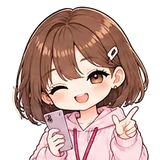
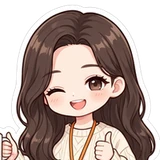
은빈을 원래 디자인으로 다시 그림 (다람 주임과 구분)
Claude-Session: https://claude.ai/code/session_013o6MwTRjv9wdDZ1RWn6mmU

diff --git a/sw.js b/sw.js
@@ -1,5 +1,5 @@
 // 자동 생성 파일: tools/build.py가 만든다. 직접 고치지 말고 tools/sw.template.js를 고칠 것
-const CACHE='humzzwi-2026.10.09-950b1d';
+const CACHE='humzzwi-2026.10.09-553dd5';
 const ASSETS=["./", "index.html", "manifest.json", "icon-192.png", "icon-512.png", "apple-touch-icon.png", "fonts/GowunDodum-Regular.woff2", "fonts/Jua-Regular.woff2", "assets/a_bear.webp", "assets/a_daram.webp", "assets/a_daram_f.webp", "assets/a_eunbin.webp", "assets/a_fox.webp", "assets/a_hanmin.webp", "assets/a_hyunsu.webp", "assets/a_hz_walk.webp", "assets/a_hz_walk_b.webp", "assets/a_jaemin.webp", "assets/a_jiyoung.webp", "assets/a_lab.webp", "assets/a_sangho.webp", "assets/a_seohwi.webp", "assets/a_sumin.webp", "assets/badge.webp", "assets/c_ai.webp", "assets/c_ai_b.webp", "assets/c_blind.webp", "assets/c_blind_b.webp", "assets/c_blog.webp", "assets/c_blog_b.webp", "assets/c_cafe.webp", "assets/c_cafe_b.webp", "assets/c_coffee.webp", "assets/c_coffee_b.webp", "assets/c_content.webp", "assets/c_content_b.webp", "assets/c_cs.webp", "assets/c_cs_b.webp", "assets/c_date.webp", "assets/c_date_b.webp", "assets/c_daytrip.webp", "assets/c_daytrip_b.webp", "assets/c_english.webp", "assets/c_english_b.webp", "assets/c_erp.webp", "assets/c_erp_b.webp", "assets/c_ev_ceo.webp", "assets/c_ev_ceo_b.webp", "assets/c_ev_jobup.webp", "assets/c_ev_jobup_b.webp", "assets/c_ev_promo.webp", "assets/c_ev_promo_b.webp", "assets/c_excel.webp", "assets/c_excel_b.webp", "assets/c_filling.webp", "assets/c_filling_b.webp", "assets/c_formula.webp", "assets/c_formula_b.webp", "assets/c_friends.webp", "assets/c_friends_b.webp", "assets/c_global.webp", "assets/c_global_b.webp", "assets/c_gym.webp", "assets/c_gym_b.webp", "assets/c_half.webp", "assets/c_half_b.webp", "assets/c_ingredient.webp", "assets/c_ingredient_b.webp", "assets/c_jeju.webp", "assets/c_jeju_b.webp", "assets/c_keymsg.webp", "assets/c_keymsg_b.webp", "assets/c_leave.webp", "assets/c_leave_b.webp", "assets/c_lecture.webp", "assets/c_lecture_b.webp", "assets/c_license.webp", "assets/c_license_b.webp", "assets/c_logistics.webp", "assets/c_logistics_b.webp", "assets/c_mba.webp", "assets/c_mba_b.webp", "assets/c_md.webp", "assets/c_md_b.webp", "assets/c_minutes.webp", "assets/c_minutes_b.webp", "assets/c_orient.webp", "assets/c_orient_b.webp", "assets/c_overtime.webp", "assets/c_overtime_b.webp", "assets/c_package.webp", "assets/c_package_b.webp", "assets/c_pilates.webp", "assets/c_pilates_b.webp", "assets/c_pt.webp", "assets/c_pt_b.webp", "assets/c_research.webp", "assets/c_research_b.webp", "assets/c_review.webp", "assets/c_review_b.webp", "assets/c_run.webp", "assets/c_run_b.webp", "assets/c_schedule.webp", "assets/c_schedule_b.webp", "assets/c_selfdate.webp", "assets/c_selfdate_b.webp", "assets/c_settle.webp", "assets/c_settle_b.webp", "assets/c_shoot.webp", "assets/c_shoot_b.webp", "assets/c_shop_hb.webp", "assets/c_shop_hb_b.webp", "assets/c_shop_mall.webp", "assets/c_shop_mall_b.webp", "assets/c_shop_online.webp", "assets/c_shop_online_b.webp", "assets/c_snack.webp", "assets/c_snack_b.webp", "assets/c_store.webp", "assets/c_store_b.webp", "assets/c_tokyo.webp", "assets/c_tokyo_b.webp", "assets/c_trip.webp", "assets/c_trip_b.webp", "assets/c_walk.webp", "assets/c_walk_b.webp", "assets/d_coffeechat_f.webp", "assets/d_coffeechat_f_b.webp", "assets/d_coffeechat_m.webp", "assets/d_coffeechat_m_b.webp", "assets/d_coffeeget_f.webp", "assets/d_coffeeget_f_b.webp", "assets/d_coffeeget_m.webp", "assets/d_coffeeget_m_b.webp", "assets/d_coffeegive_f.webp", "assets/d_coffeegive_f_b.webp", "assets/d_coffeegive_m.webp", "assets/d_coffeegive_m_b.webp", "assets/d_coffeeshare_f.webp", "assets/d_coffeeshare_f_b.webp", "assets/d_coffeeshare_m.webp", "assets/d_coffeeshare_m_b.webp", "assets/d_confess_f.webp", "assets/d_confess_f_b.webp", "assets/d_confess_m.webp", "assets/d_confess_m_b.webp", "assets/d_picnic_f.webp", "assets/d_picnic_f_b.webp", "assets/d_picnic_m.webp", "assets/d_picnic_m_b.webp", "assets/d_ramen_f.webp", "assets/d_ramen_f_b.webp", "assets/d_ramen_m.webp", "assets/d_ramen_m_b.webp", "assets/ev_arrive.webp", "assets/ev_arrive_b.webp", "assets/ev_building.webp", "assets/ev_dinner.webp", "assets/ev_overload.webp", "assets/ev_pass.webp", "assets/ev_pass_b.webp", "assets/ev_present.webp", "assets/ev_reject.webp", "assets/ev_reject_b.webp", "assets/ev_studio.webp", "assets/ev_studio_b.webp", "assets/ev_subway.webp", "assets/ev_subway_b.webp", "assets/f_bear.webp", "assets/f_ceo.webp", "assets/f_daram.webp", "assets/f_daram_f.webp", "assets/f_eunbin.webp", "assets/f_fox.webp", "assets/f_hanmin.webp", "assets/f_hyunsu.webp", "assets/f_hz.webp", "assets/f_jaemin.webp", "assets/f_jiyoung.webp", "assets/f_lab.webp", "assets/f_sangho.webp", "assets/f_seohwi.webp", "assets/f_sumin.webp", "assets/hz.png", "assets/id_bad.webp", "assets/id_good.webp", "assets/id_ok.webp", "assets/lunch.webp", "assets/m_box.webp", "assets/m_box_b.webp", "assets/m_fit.webp", "assets/m_fit_b.webp", "assets/m_lab.webp", "assets/m_lab_b.webp", "assets/m_phone.webp", "assets/m_phone_b.webp", "assets/m_study.webp", "assets/m_study_b.webp", "assets/pl_boss.webp", "assets/pl_cafe.webp", "assets/pl_lab.webp", "assets/pl_mkt.webp", "assets/pl_ops.webp", "assets/pl_roof.webp", "assets/pl_sales.webp", "assets/pl_strat.webp", "assets/pl_studio.webp", "assets/pl_wh.webp", "assets/s_ceo.webp", "assets/s_coffee.webp", "assets/s_coffee_b.webp", "assets/s_dark.webp", "assets/s_dark_b.webp", "assets/s_desk.webp", "assets/s_desk_b.webp", "assets/s_eat.webp", "assets/s_eat_b.webp", "assets/s_jump.webp", "assets/s_jump_b.webp", "assets/s_sleep.webp", "assets/s_sleep_b.webp", "assets/s_walk.webp", "assets/s_walk_b.webp", "assets/sc_cafe.webp", "assets/sc_factory.webp", "assets/sc_gym.webp", "assets/sc_home.webp", "assets/sc_lab.webp", "assets/sc_meeting.webp", "assets/sc_office.webp", "assets/sc_package.webp", "assets/sc_park.webp", "assets/sc_popup.webp", "assets/sc_rain.webp", "assets/sc_store.webp", "assets/sc_studio.webp", "assets/sc_study.webp", "assets/v_short.webp", "assets/v_short_b.webp"];
 self.addEventListener('install',e=>{self.skipWaiting();e.waitUntil((async()=>{
   const c=await caches.open(CACHE),total=ASSETS.length,all=async()=>self.clients.matchAll({includeUncontrolled:true});

diff --git a/index.html b/index.html
@@ -7,7 +7,7 @@
 <meta name="apple-mobile-web-app-capable" content="yes"><meta name="mobile-web-app-capable" content="yes">
 <meta name="apple-mobile-web-app-status-bar-style" content="black-translucent"><meta name="apple-mobile-web-app-title" content="험쮜메이커">
 <meta name="theme-color" content="#2a1f33">
-<link rel="manifest" href="manifest.json?v=950b1d"><link rel="apple-touch-icon" sizes="180x180" href="apple-touch-icon.png?v=950b1d"><link rel="icon" type="image/png" sizes="192x192" href="icon-192.png?v=950b1d">
+<link rel="manifest" href="manifest.json?v=553dd5"><link rel="apple-touch-icon" sizes="180x180" href="apple-touch-icon.png?v=553dd5"><link rel="icon" type="image/png" sizes="192x192" href="icon-192.png?v=553dd5">
 <style>
 /* 글꼴은 파일로 같이 들고 다닌다 (비행기 모드에서도 같은 모양) */
 @font-face{font-family:"Jua";src:url(fonts/Jua-Regular.woff2) format("woff2");font-display:swap}
@@ -2382,7 +2382,7 @@ function showGroup(ks){let g=$('#group');if(!g){g=document.createElement('div');
   // 모두 같은 배율의 그림이라 BODY_T(실제 키) 비율 그대로 세운다
   g.innerHTML=ks.map((k,i)=>`<figure style="animation-delay:${i*.08}s" data-t="${bodyT(k)}"><figcaption>${JOB_TAG[k]?JOB_TAG[k]+' · '+given(k):who(k).name}</figcaption><img src="${IMG(sprOf(k))}" alt="${esc(who(k).name)}"></figure>`).join('');g.hidden=false;placeGroup()}
 // 모든 동료 그림은 한 장의 라인업에서 같은 배율로 오려낸 것. BODY_T = 그림의 실제 픽셀 키 (얼굴 크기는 모두 같다)
-const BODY_T={"sangho":597,"hyunsu":533,"hanmin":581,"seohwi":536,"jiyoung":493,"daram":585,"eunbin":504,"sumin":538,"jaemin":593,"daram_f":486},T_MAX=597;
+const BODY_T={"sangho":597,"hyunsu":533,"hanmin":581,"seohwi":536,"jiyoung":493,"daram":585,"eunbin":510,"sumin":538,"jaemin":593,"daram_f":486},T_MAX=597;
 const sprOf=k=>imgOf(k);
 const bodyT=k=>BODY_T[imgOf(k).slice(2)]||T_MAX;
 function placeGroup(){const g=$('#group');if(!g||g.hidden)return;const d=$('#dialog'),ph=$('#phone').clientHeight,top=d.hidden?ph-200:d.offsetTop;
@@ -2910,7 +2910,7 @@ document.addEventListener('click',e=>{const b=e.target.closest('[data-mset]');if
    말주머니로 질문 → 답을 고르면 업무 성과 평가(정답일수록 매출·해외 진출·♥ 상승). 한 달에 3번. */
 const SEAT={sangho:[30,26],hyunsu:[70,26],hanmin:[18,48],seohwi:[50,48],jiyoung:[82,48],daram:[13,70],eunbin:[37,70],sumin:[63,70],jaemin:[87,70]};
 // 캐릭터마다 원본 그림 크기가 달라서, 얼굴 폭이 같아 보이도록 자르는 값 [너비%, 왼쪽%, 위%]
-const CROP={"sangho": [110.3, -3.0, 4.8], "hyunsu": [112.7, -1.2, 4.8], "hanmin": [119.4, -7.0, 4.8], "seohwi": [110.3, -1.5, 4.8], "jiyoung": [98.2, 2.2, 4.8], "daram": [107.3, -0.6, 4.8], "eunbin": [106.1, -2.8, 4.8], "sumin": [103.0, 3.4, 4.8], "jaemin": [115.8, -1.5, 4.8], "daram_f": [105.5, -1.5, 4.8]};
+const CROP={"sangho": [110.3, -3.0, 4.8], "hyunsu": [112.7, -1.2, 4.8], "hanmin": [119.4, -7.0, 4.8], "seohwi": [110.3, -1.5, 4.8], "jiyoung": [98.2, 2.2, 4.8], "daram": [107.3, -0.6, 4.8], "eunbin": [146.1, -34.5, 4.8], "sumin": [103.0, 3.4, 4.8], "jaemin": [115.8, -1.5, 4.8], "daram_f": [105.5, -1.5, 4.8]};
 const SEAT_ROW=[[11.5,'부장실'],[81,'인턴석 · 문 바로 옆']];
 const MY_SEAT=[60,96];
 // 사무실에선 이름 대신 직무로 표기
@@ -3517,7 +3517,7 @@ $('#btn-start').onclick=async()=>{
 setSound(AU.on);
 /* ================= 빌드 코드 · 오프라인(홈 화면 앱) =================
    tools/build.py가 BUILD를 매긴다. 홈 화면에 추가하면 처음 한 번 그림을 전부 받아 두고, 그 뒤로는 비행기 모드에서도 실행된다 */
-const BUILD='2026.10.09-950b1d';
+const BUILD='2026.10.09-553dd5';
 $('#build-title').textContent=$('#build-menu').textContent=`빌드 ${BUILD}`;
 if('serviceWorker' in navigator&&/^https?:$/.test(location.protocol)){
   const bar=document.createElement('div');bar.className='sw-bar';bar.hidden=true;document.body.appendChild(bar);
